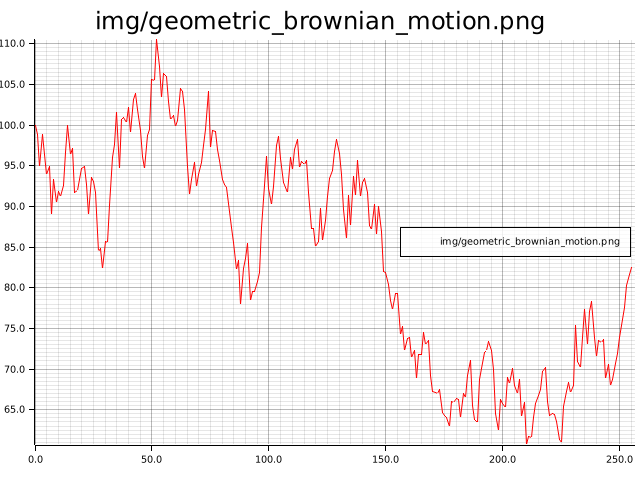
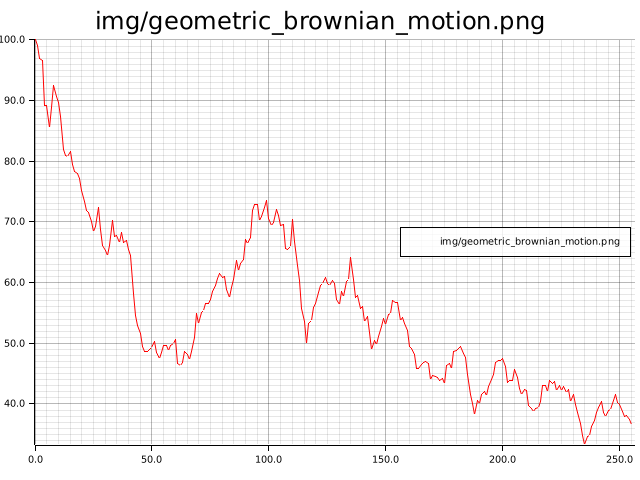
0.4.0: pass in `rng` and seed it in tests. update images

Changed region(s): [[0.0, 0.0625, 1.0, 0.9375]]

diff --git a/src/mackey_glass_generator.rs b/src/mackey_glass_generator.rs
@@ -1,6 +1,6 @@
 use std::collections::VecDeque;
 
-use nanorand::{Rng, WyRand};
+use rand::Rng;
 
 /// Mackey glass series generation
 ///
@@ -8,18 +8,14 @@ use nanorand::{Rng, WyRand};
 /// `sample_len`: the number of datapoints to generate
 /// `tau`: roughly correlates to the chaotic and complex behaviour of the sequence
 /// `seed`: An optional seed for the random number generator
-pub fn mackey_glass_series(sample_len: usize, tau: usize, seed: Option<u64>) -> Vec<f64> {
+pub fn mackey_glass_series<R: Rng>(rng: &mut R, sample_len: usize, tau: usize) -> Vec<f64> {
     let delta_t = 10;
     let mut timeseries = 1.2;
     let history_len = tau * delta_t;
 
-    let mut rng = match seed {
-        Some(seed) => WyRand::new_seed(seed),
-        None => WyRand::new(),
-    };
     let mut history = VecDeque::with_capacity(history_len);
     for _i in 0..history_len {
-        let val = 1.2 + 0.2 * (rng.generate::<f64>() - 0.5);
+        let val = 1.2 + 0.2 * (rng.random::<f64>() - 0.5);
         history.push_back(val);
     }
 
@@ -43,13 +39,16 @@ pub fn mackey_glass_series(sample_len: usize, tau: usize, seed: Option<u64>) -> 
 
 #[cfg(test)]
 mod tests {
+    use rand::{rngs::SmallRng, SeedableRng};
+
     use crate::plot::plot_2d;
 
     use super::*;
 
     #[test]
     fn plot_mackey_glass() {
-        let series = mackey_glass_series(1000, 30, None);
+        let mut rng = SmallRng::seed_from_u64(0);
+        let series = mackey_glass_series(&mut rng, 1000, 30);
 
         let filename = "./img/mackey_glass.png";
         plot_2d(series, filename).unwrap();

diff --git a/src/geometric_brownian_motion.rs b/src/geometric_brownian_motion.rs
@@ -1,21 +1,22 @@
+use rand::Rng;
 use rand_distr::{Distribution, Normal};
 
 /// Generate geometric brownian motion
-pub fn generate_geometric_brownian_motion(
+pub fn generate_geometric_brownian_motion<R: Rng>(
+    rng: &mut R,
     s_0: f64,
     dt: f64,
     length: usize,
     drift: f64,
     diffusion: f64,
 ) -> Vec<f64> {
-    let mut rng = rand::rng();
     let dist = Normal::new(0.0, 1.0).expect("Is valid distribution");
     let mut v = Vec::<f64>::with_capacity(length);
     v.push(s_0);
     let drift_factor = 1.0 + drift * dt;
     let diffusion_factor = diffusion * dt.sqrt();
     for idx in 1..length {
-        let rv = drift_factor + diffusion_factor * dist.sample(&mut rng);
+        let rv = drift_factor + diffusion_factor * dist.sample(rng);
         let prod: f64 = rv * v[idx - 1];
         v.push(prod);
     }
@@ -24,12 +25,15 @@ pub fn generate_geometric_brownian_motion(
 
 #[cfg(test)]
 mod tests {
+    use rand::{rngs::SmallRng, SeedableRng};
+
     use super::*;
     use crate::plot::plot_2d;
 
     #[test]
     fn geometric_brownian_motion_plot() -> Result<(), Box<dyn std::error::Error>> {
-        let vals = generate_geometric_brownian_motion(100.0, 1.5 / 365.0, 256, 0.15, 0.5);
+        let mut rng = SmallRng::seed_from_u64(0);
+        let vals = generate_geometric_brownian_motion(&mut rng, 100.0, 1.5 / 365.0, 256, 0.15, 0.5);
 
         let filename = "img/geometric_brownian_motion.png";
         plot_2d(vals, filename)

diff --git a/src/standard_normal.rs b/src/standard_normal.rs
@@ -1,13 +1,11 @@
-use rand::{prelude::*, rng};
+use rand::prelude::*;
 use rand_distr::StandardNormal;
 
 /// generate a new randomly sampled timeseries of given length
 /// using a standard normal distribution scaled down by 100
 /// by multiplying a random (+/-) value with the previous value
-pub fn generate_standard_normal(length: usize, start_value: f64) -> Vec<f64> {
+pub fn generate_standard_normal<R: Rng>(rng: &mut R, length: usize, start_value: f64) -> Vec<f64> {
     let mut out: Vec<f64> = vec![0.0; length];
-
-    let mut rng = rng();
 
     out.push(start_value);
     let mut last_val: f64 = start_value;
@@ -27,7 +25,8 @@ mod tests {
 
     #[test]
     fn generate_standard_normal_plot() -> Result<(), Box<dyn std::error::Error>> {
-        let gp = generate_standard_normal(256, 100.0);
+        let mut rng = SmallRng::seed_from_u64(0);
+        let gp = generate_standard_normal(&mut rng, 256, 100.0);
 
         let filename = "img/standard_normal.png";
         plot_2d(gp, filename)
